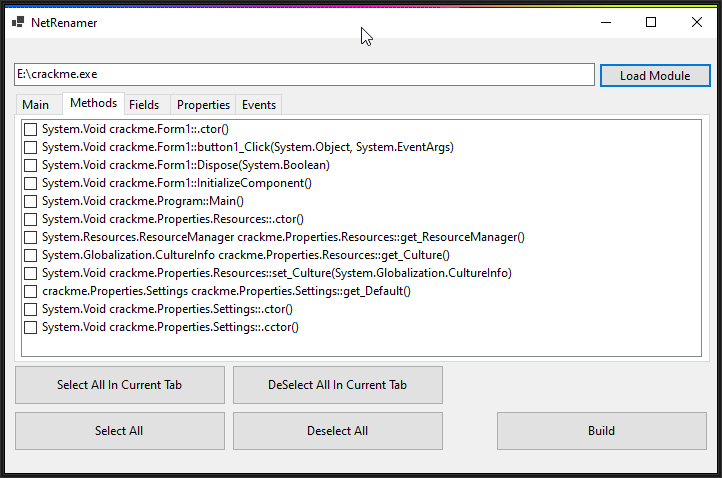
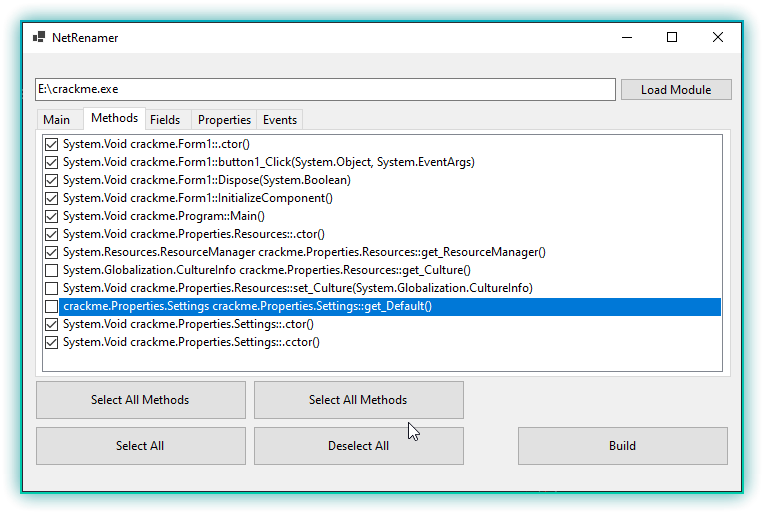
fix

diff --git a/UI/Form1.cs b/UI/Form1.cs
@@ -117,5 +117,21 @@ namespace NetRenamer
         }
 
         #endregion
+
+        private void Types_SelectedIndexChanged(object sender, EventArgs e)
+        {
+            if(Types.SelectedIndex != 0)
+            {
+                SelectCurrentButton.Enabled = true;
+                DeSelectCurrentButton.Enabled = true;
+                SelectCurrentButton.Text = $"Select All {Types.SelectedTab.Text}";
+                DeSelectCurrentButton.Text = $"Select All {Types.SelectedTab.Text}";
+            }
+            else
+            {
+                SelectCurrentButton.Enabled = false;
+                DeSelectCurrentButton.Enabled = false;
+            }
+        }
     }
 }

diff --git a/UI/Form1.Designer.cs b/UI/Form1.Designer.cs
@@ -101,6 +101,7 @@
             this.Types.SelectedIndex = 0;
             this.Types.Size = new System.Drawing.Size(698, 271);
             this.Types.TabIndex = 7;
+            this.Types.SelectedIndexChanged += new System.EventHandler(this.Types_SelectedIndexChanged);
             // 
             // MainPage
             // 
